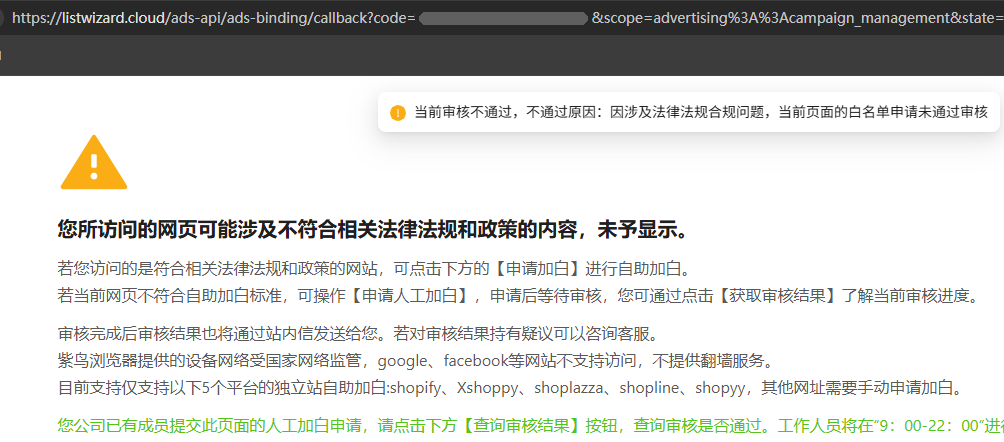
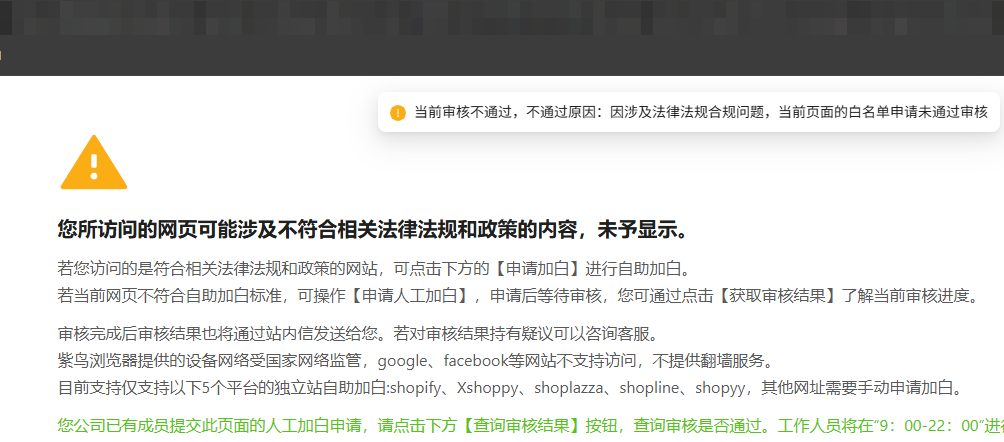
Ziniao FAQ: mask the whole URL, say how to replace a timed-out link
The blocked-page screenshot now pixelates the entire address bar, not
just the OAuth code. Step 5 says the link is short-lived and that
clicking Authorize again makes a new one.

Changed region(s): [[0.0, 0.0, 1.0, 0.0882]]

diff --git a/docs/ads-api.en.md b/docs/ads-api.en.md
@@ -132,7 +132,7 @@ The consent page's domain, listwizard.cloud, is still going through its ICP fili
 
     ![What to send the agent (illustration)](images/ziniao_support_message.png){ width="640" }
 
-5. Once it is allowlisted, go back to Vibe Seller, click **Authorize** again and open the new link in Ziniao.
+5. Once it is allowlisted, go back to Vibe Seller, click **Authorize** again and open the new link in Ziniao. The link is short-lived: if it has timed out, click **Authorize** once more to generate a new one.
 
 The page's own 申请人工加白 (request a manual allowlist) button may come back rejected — go to Ziniao's human support instead.
 
